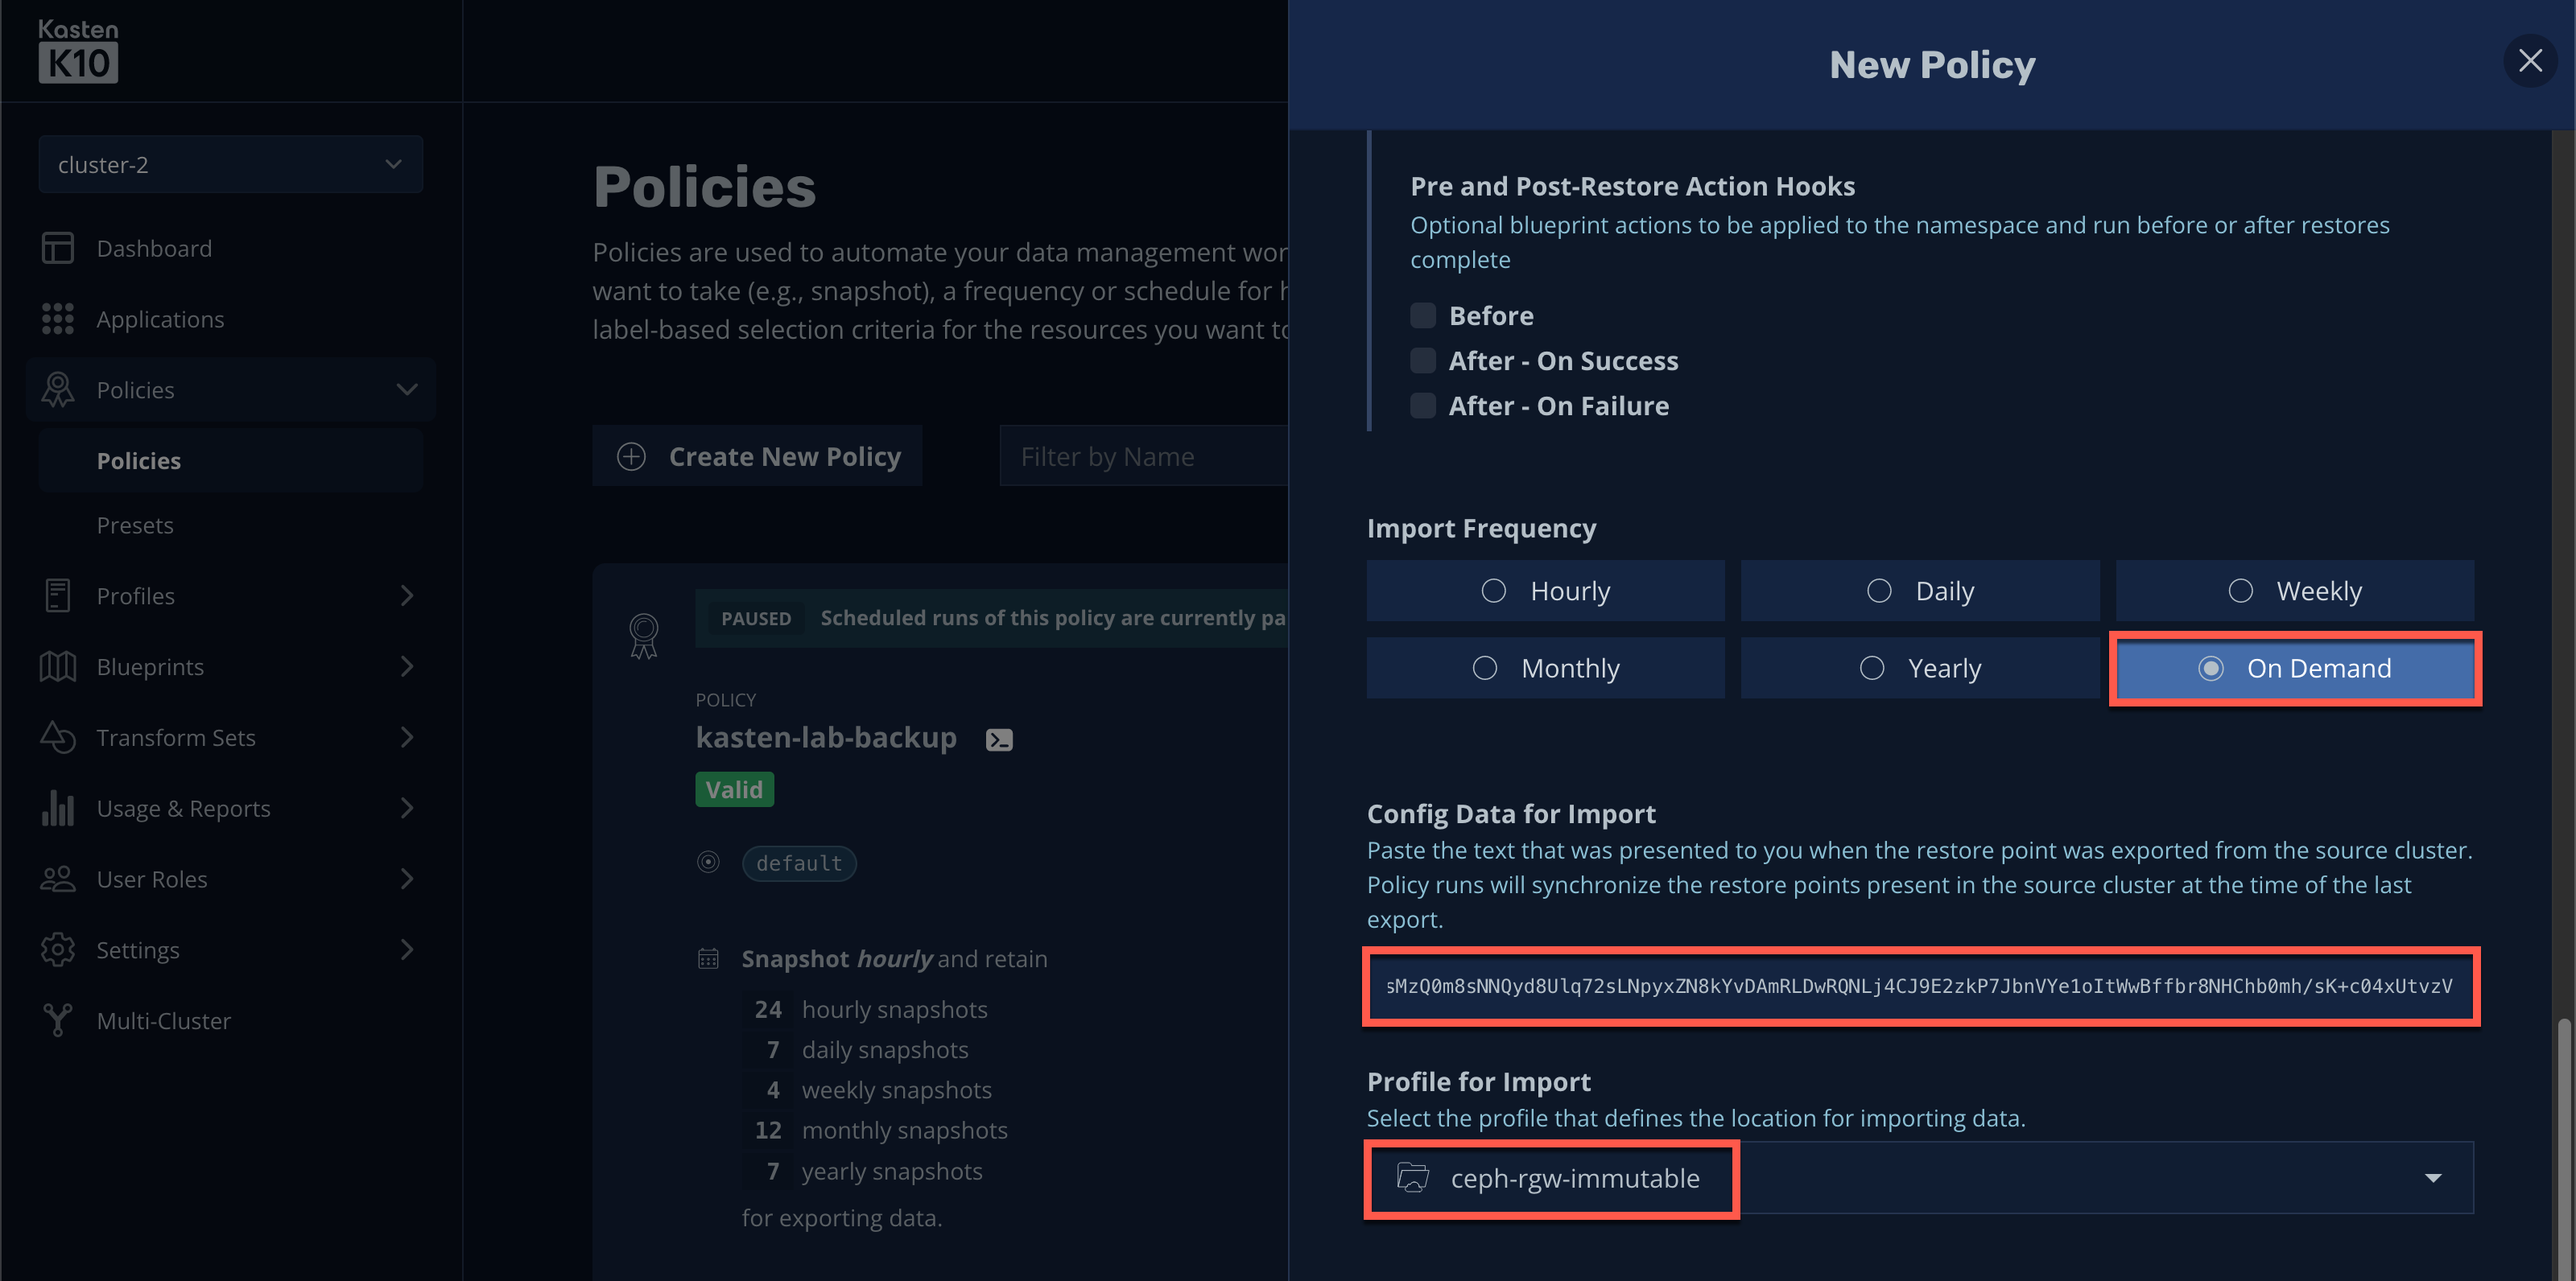
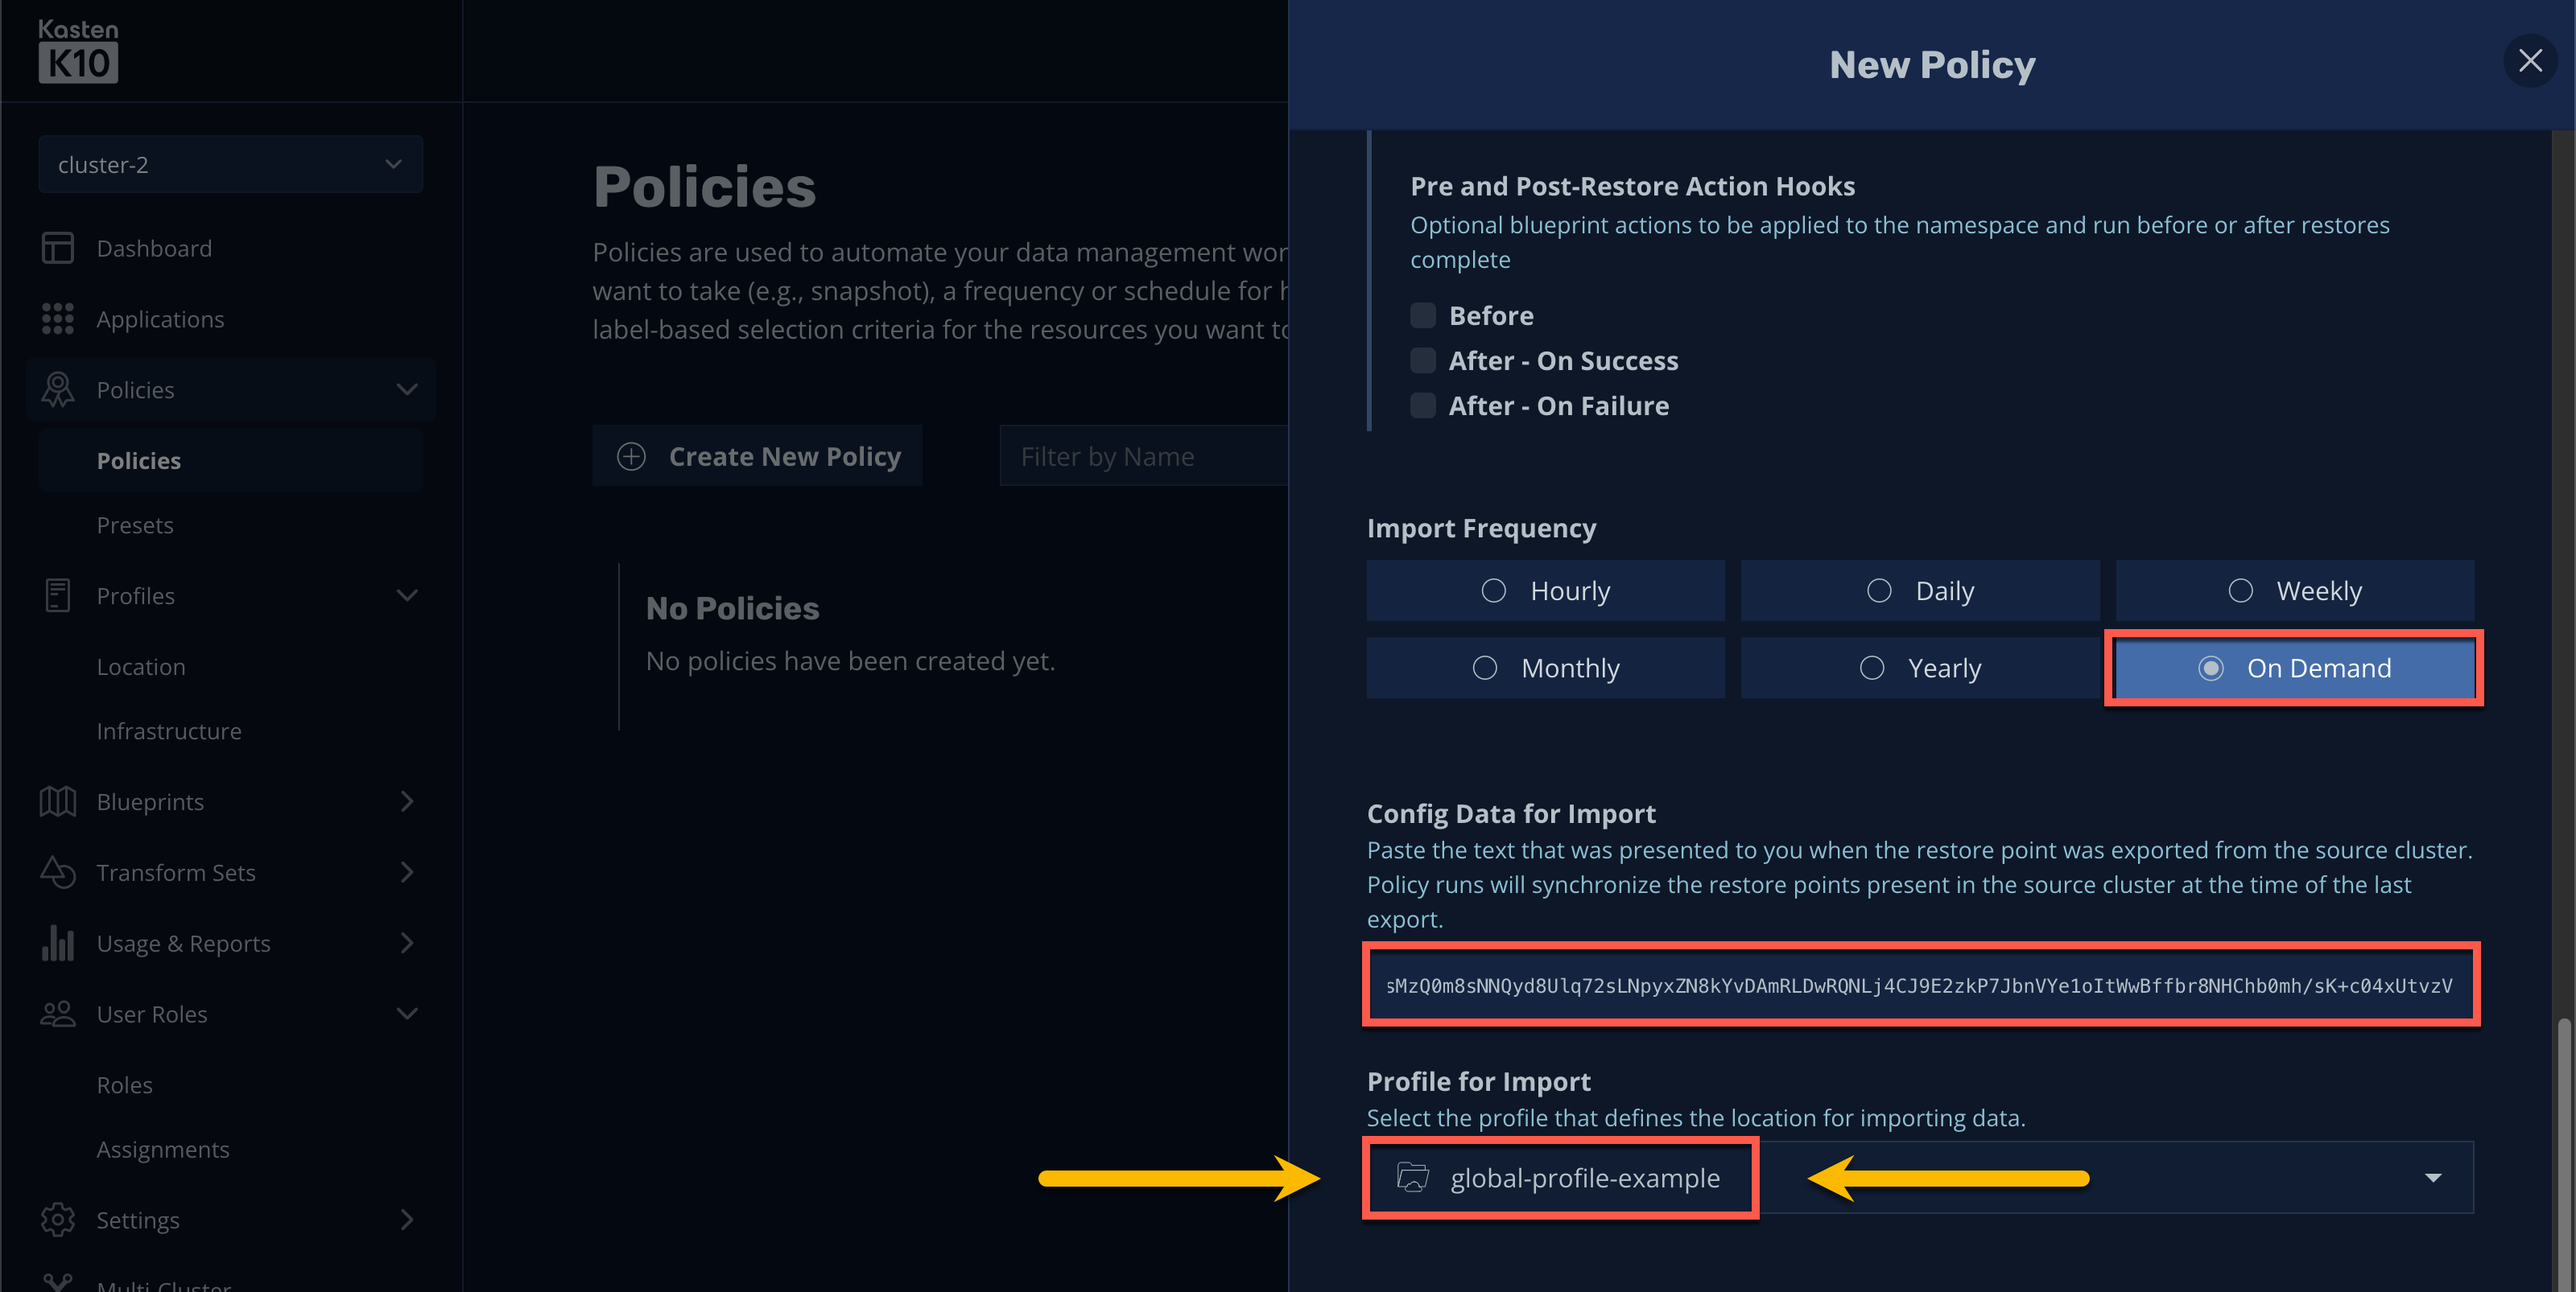
mobility lab location profile fix

diff --git a/mobility.md b/mobility.md
@@ -31,11 +31,15 @@ In this exercise...
     | ***Restore After Import*** | Click to enable |
     | ***Import Frequency*** | Select ***On-Demand*** |
     | ***Config Data for Import*** | Paste the migration token |
-    | ***Profile for Import*** | Select `ceph-rgw-immutable` |
+    | ***Profile for Import*** | Select `global-profile-example` |
 
     ![](static/mobility/3.png)
 
     ![](static/mobility/3b.png)
+
+    > [!CRITICAL]
+    >
+    > Why you need to select `global-profile-example`...
 
 1. Click ***Create Policy***.
 
@@ -43,11 +47,17 @@ In this exercise...
 
     ![](static/mobility/4.png)
 
-2. Return to ***Dashboard*** in the sidebar and select the `kasten-lab-import` Policy Run under ***Actions*** to monitor status.
+1. Return to ***Dashboard*** in the sidebar and select the `kasten-lab-import` Policy Run under ***Actions*** to monitor status.
 
     ![](static/mobility/5.png)
 
     Once the Import completes, you should observe the Restore action start immediately, using the most recent `kasten-lab` RestorePoint.
+
+1. Once the restore completes, open ***OpenShift Console → Virtualization → Virtual Machines*** on `cluster-2`.
+   
+    ![](static/mobility/6.png)
+   
+    You should observe the `fedora-k10` VM from `cluster-1` running in the `kasten-lab` namespace (in addition to the `fedora-k10` VM cloned in a previous lab exercise).
 
 ## 3. Advanced Options
 
